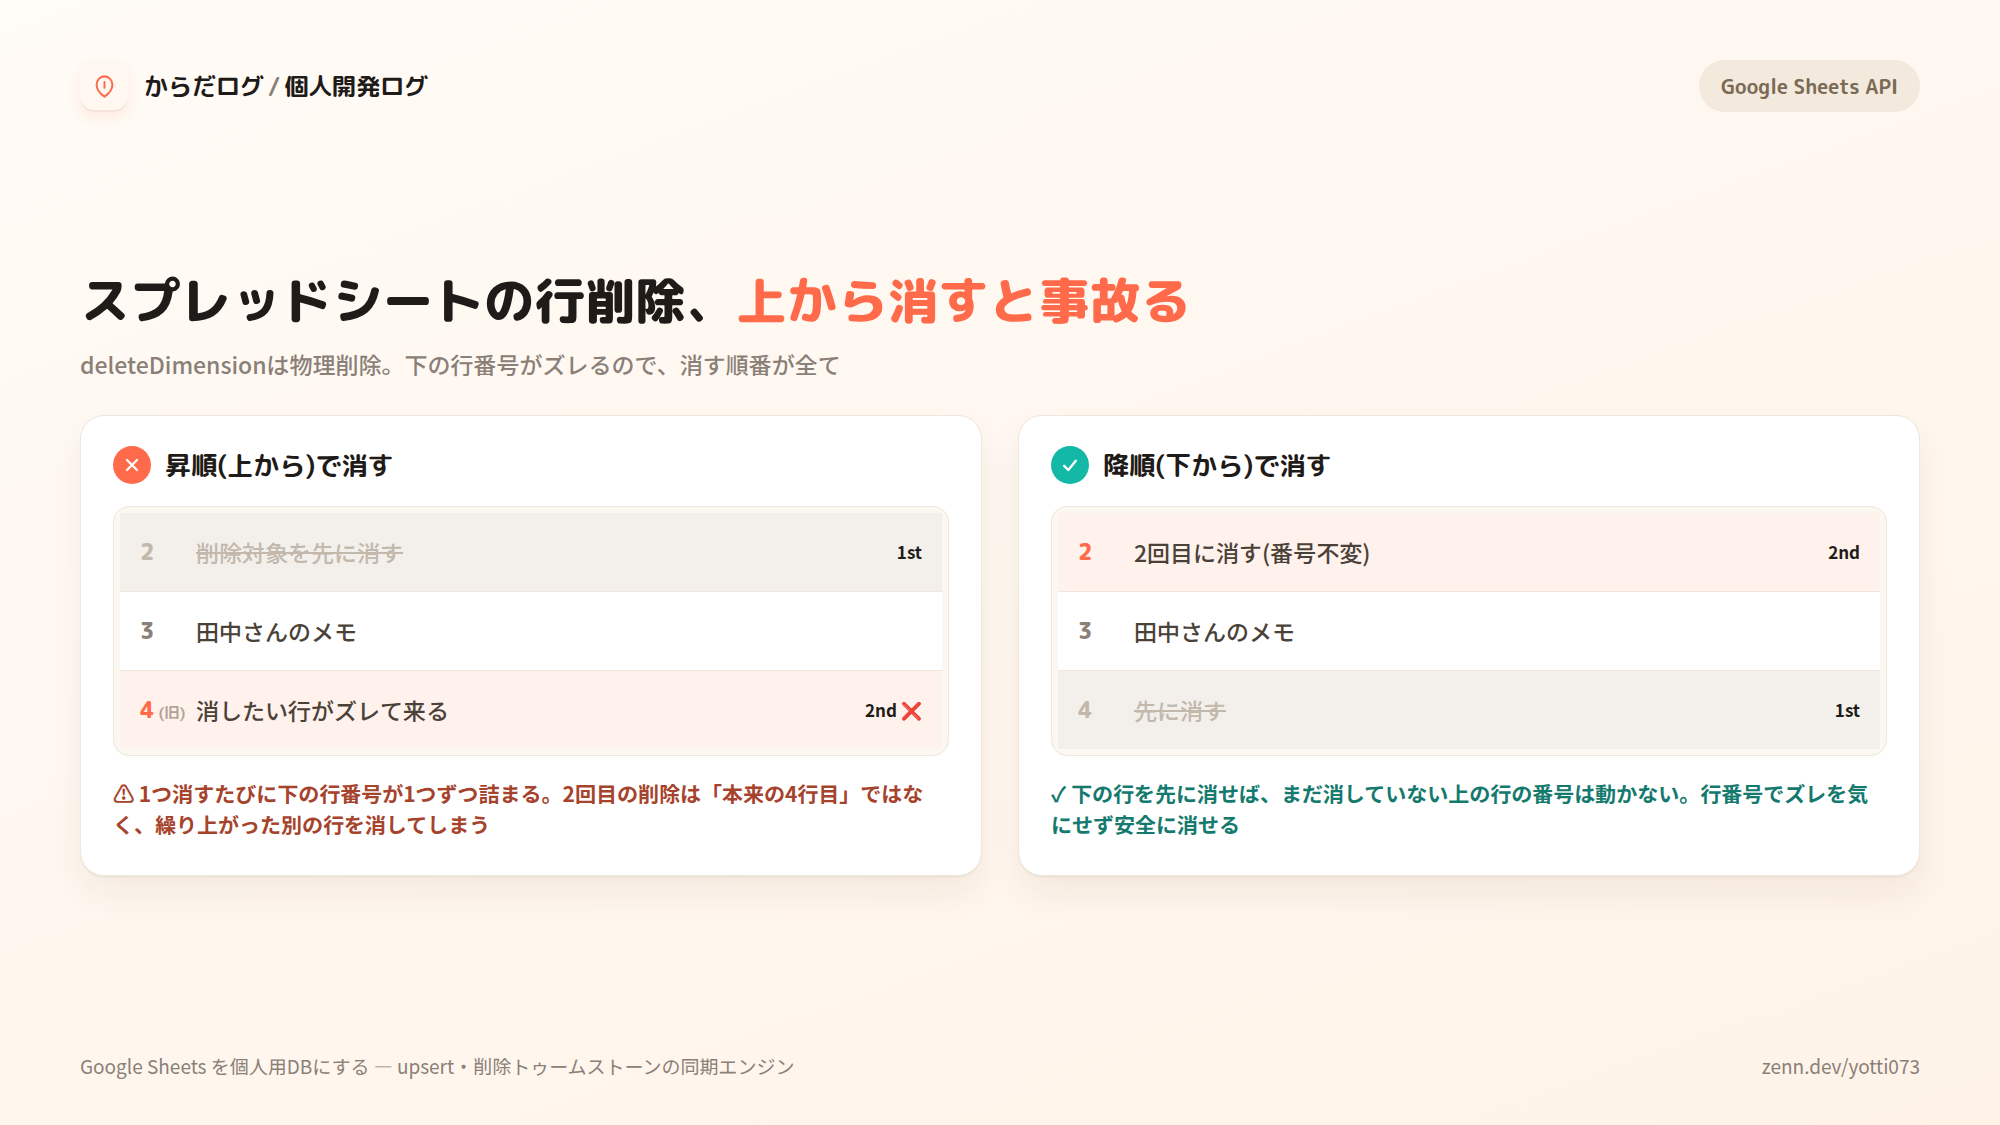
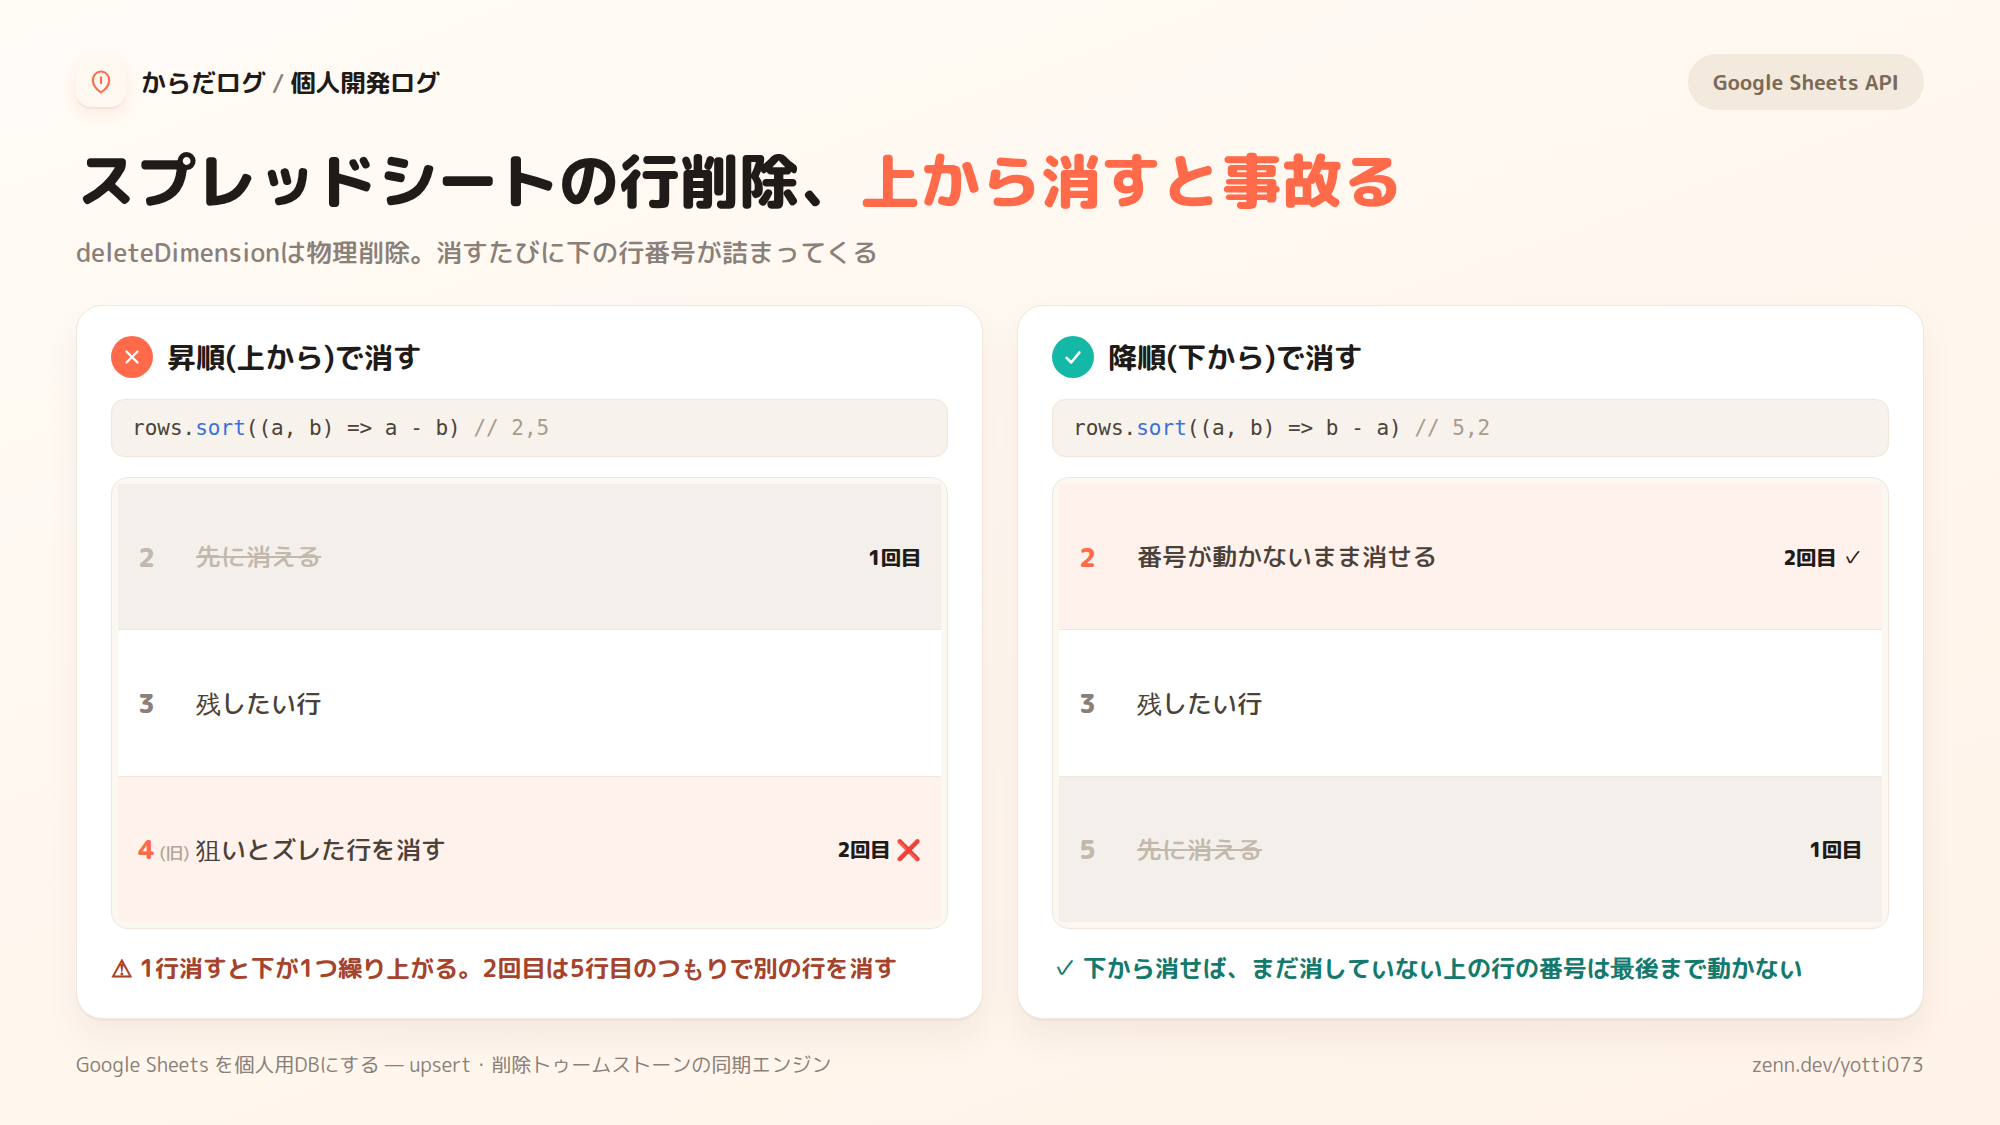
記事画像の既定フォントと余白の詰め方を明文化する
サムネイル・図の既定フォントをM PLUS Rounded 1c(note記事1と同じ丸ゴシック)
と決め、Google Fontsへ到達できない環境でのフォールバック対策と、
上下の余白を情報で埋める組み方をREADMEに残した。zenn03の2枚も作り直した。

diff --git a/articles/README.md b/articles/README.md
@@ -86,9 +86,18 @@ Zennの技術記事は、バズ(はてブ・トレンド)の一発より、**具
 - **2026-07-16: 「淡々と続ける」運用に入った。** 初回2本(note・Zenn各1本)を公開し、拡散施策(Xでの初速作り)も一通り実施済み。ここからは新規の施策検討より、週1の定型レポート(note記事2の型)を止めずに出し続けることを優先する。Zennのストック記事(#2〜#6)は開発が一段落した時に無理なく書く
 - **記事公開時のX投稿は `X投稿テンプレート.md` の「本文+自己リプ」の型に沿う。** 外部リンクは本文に貼らず自己リプに回す・ハッシュタグ1〜2個・画像1枚・反応には全部返信、が伸ばすための基本。記事タイプ別(note週次/Zenn技術)のテンプレと投稿前チェックリストは同ファイルにある
 
+## 画像(サムネイル・記事中の図)の作り方
+
+記事のサムネイル・図・X投稿用画像は、HTML/CSSで組んでPlaywrightでPNGに書き出す。配色はアプリのデザイントークン(クリーム `#FFF8F0` / プライマリ `#FF6B4A` / ティール `#14B8A6`)に合わせる。
+
+- **既定フォントは M PLUS Rounded 1c(丸ゴシック)。** note記事1のサムネイルがこれで、シリーズの見た目をここに揃える(2026-08-02決定)。見出しは800、本文は400〜700。コード・IDなど等幅にしたい箇所だけmonospaceを使う。例外として `note03_サムネ.png` だけは Zen Kaku Gothic New(角ゴシック)で作ってあり、これは当時の判断のまま残す
+- **Google Fontsをレンダリング環境から直接読めない場合がある。** ヘッドレスChromiumから `fonts.googleapis.com` に到達できず、CSSの指定が無視されてシステムのゴシックに**黙ってフォールバックする**(エラーにならないので気づきにくい)。`curl` は通るので、Google Fontsの `text=` サブセット機能で必要な文字だけのwoff2を取得し、base64で `@font-face` に埋め込んでからレンダリングする。書き出し後は `document.fonts.size` が0でないことを必ず確認する
+- **上下に間延びした余白を作らない。** キャンバスを `grid-template-rows: auto auto 1fr auto`(ヘッダー/見出し/本体/フッター)で組み、本体のカードを `align-items: stretch`、中の行を `flex: 1` で伸ばして高さを埋める。中身が薄くて埋まらない場合は、余白を足すのではなく**情報を足す**(コード1行を添える、対になる事例をもう1行足す等)か、キャンバスの縦を詰める
+
 ## 進捗ログ
 
 - 2026-07-16: note01・zenn01を公開。GitHub(`yotti773`)・Zenn/note/X(`yotti073`)のハンドル統一、リポジトリpublic化、MITライセンス追加、`zenn-content`リポジトリ作成、X投稿文の準備までを実施
 - 2026-07-22: note02(週次実験レポート第1弾・7/13週)を公開。週次レビュー画面の実データ(週平均体重・実測TDEE・AIコーチのコメント)を転記し、サムネイル(`note02_サムネ.png`)を作成。週1定型レポートの運用を開始
 - 2026-07-30: note03(週次実験レポート・7/20週)の下書きを追加。体調不良で体重増加・筋トレ0回という今週は「遅れ気味」週で、開発トピックも無かった(該当コミット無し)ため省略。タイトルは「体調を崩した週、記録は止めなかった」で確定し、サムネイル(`note03_サムネ.png`)も見出し主導型の案Aで作成。見出しフォントはM PLUS Rounded 1c(丸ゴシック)だと「AI生成デザイン」感が出るとの指摘を受け、Zen Kaku Gothic New(極太角ゴシック)に変更した
 - 2026-08-02: zenn03(Google Sheetsを個人用DBにする — upsert・削除トゥームストーンの同期エンジン)の初稿を作成。サービスアカウントJWTの`crypto.subtle`署名、追記オンリー設計が編集・削除で壊れる問題とID列upsertでの解決、削除トゥームストーンパターン(降順での行削除が必須な理由込み)、複数タブの部分成功ハンドリングを軸に構成。スラッグは`cloudflare-workers-google-sheets-sync`で`zenn-content`に反映(`published: false`)。本文中の概念図(`zenn03_図1_upsert概念図.png`)とX投稿用の❌/✅図解(`zenn03_X画像_行削除順序.png`、削除は降順でという核を図示)を作成し本文に追記。両リポジトリでPR作成(`lifelog` #153、`zenn-content` #2)
+- 2026-08-02: 記事画像の作り方を「画像(サムネイル・記事中の図)の作り方」節として明文化。zenn03の2枚は当初、ヘッドレスChromiumがGoogle Fontsに到達できずシステムのゴシックにフォールバックしていた(指定は効いていたつもりだった)ため、サブセットwoff2の埋め込みに切り替えてM PLUS Rounded 1cで作り直した。併せて上下の余白が間延びしていたのを、カード・行を伸ばして高さを埋める構成に変更(概念図は3200×1600へ、右カードには追記ケースの行を足して左右の行数を揃えた)
